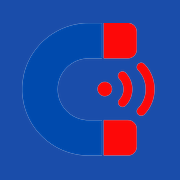
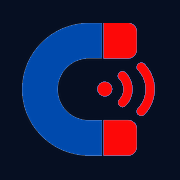
Fondo del ícono de la PWA: celeste claro -> navy oscuro (#060F22, el de Training)
Los PNG de ícono tenían el fondo pintado en el archivo, no solo en el
manifest -- se recoloreó por distancia de color para tocar solo el
fondo plano y dejar el imán/rojo del logo intactos. theme_color y los
meta theme-color del HTML quedan en línea con el nuevo fondo.

Claude-Session: https://claude.ai/code/session_01DTTr8vqoQRM8kee5pWPdE3

diff --git a/admin/index.html b/admin/index.html
@@ -7,7 +7,7 @@
   <title>COSMART Marketing Hub — Admin</title>
   <link rel="icon" type="image/png" href="../app/favicon-cosmart.png?v=2">
   <link rel="manifest" href="/manifest.webmanifest">
-  <meta name="theme-color" content="#1A4DAA">
+  <meta name="theme-color" content="#060F22">
   <link rel="apple-touch-icon" href="/icons/apple-touch-icon.png">
   <meta name="apple-mobile-web-app-capable" content="yes">
   <meta name="apple-mobile-web-app-status-bar-style" content="black-translucent">

diff --git a/login.html b/login.html
@@ -8,7 +8,7 @@
   <link rel="icon" type="image/png" href="app/favicon-cosmart.png?v=2">
   <meta name="robots" content="noindex, nofollow">
   <link rel="manifest" href="/manifest.webmanifest">
-  <meta name="theme-color" content="#1A4DAA">
+  <meta name="theme-color" content="#060F22">
   <link rel="apple-touch-icon" href="/icons/apple-touch-icon.png">
   <meta name="apple-mobile-web-app-capable" content="yes">
   <meta name="apple-mobile-web-app-status-bar-style" content="black-translucent">

diff --git a/app/index.html b/app/index.html
@@ -7,7 +7,7 @@
   <title>COSMART Marketing Hub</title>
   <link rel="icon" type="image/png" href="favicon-cosmart.png?v=2">
   <link rel="manifest" href="/manifest.webmanifest">
-  <meta name="theme-color" content="#1A4DAA">
+  <meta name="theme-color" content="#060F22">
   <link rel="apple-touch-icon" href="/icons/apple-touch-icon.png">
   <meta name="apple-mobile-web-app-capable" content="yes">
   <meta name="apple-mobile-web-app-status-bar-style" content="black-translucent">

diff --git a/HANDOFF.md b/HANDOFF.md
@@ -1,6 +1,15 @@
 # HANDOFF — hub (frontend, Marketing Hub de COSMART)
 
-Actualizado: 2026-10-08. Léelo entero antes de tocar código o responder preguntas sobre el estado del proyecto.
+Actualizado: 2026-10-09. Léelo entero antes de tocar código o responder preguntas sobre el estado del proyecto.
+
+## [09/10] Ícono de la PWA: fondo azul oscuro (el de Training, #060F22) en vez del celeste claro
+
+Vaneh: "de hub nunca arreglaste como se ve el icono cuando se baja la app. El azul de fondo tiene que ser el más oscuro, el de training diria" -- el ícono (home screen al instalar la PWA) tenía el fondo en el celeste de `theme_color` (#1A4DAA), ella lo quería en el navy oscuro que ya usa Training (#060F22, el mismo de `training/admin/app/manifest.json` y de la franja del logo en los emails de `cosmart-training-core`).
+
+- **Los 5 PNG de ícono** (`icons/icon-192.png`, `icon-512.png`, `icon-maskable-192.png`, `icon-maskable-512.png`, `icons/apple-touch-icon.png`) tenían el fondo pintado DENTRO del PNG (no es solo CSS/manifest) -- se recoloreó con un script de Python (PIL): cualquier píxel a distancia ≤14 del celeste viejo exacto `(26,77,170)` pasa a `(6,15,34)` = `#060F22`; el resto (el imán en azul medio `(0,74,173)` y el rojo) queda intacto, así el imán se sigue viendo con buen contraste contra el fondo oscuro nuevo. **Ojo si hay que volver a tocar estos PNG**: el primer intento fue escalar TODOS los píxeles azules proporcionalmente (fondo Y el imán a la vez) y quedó mal -- el imán, al ser casi del mismo celeste que el fondo viejo, se volvía casi invisible contra el navy nuevo. El fix bueno es el de arriba: tocar SOLO el fondo plano (que es un color sólido exacto, sin anti-aliasing contra sí mismo) y dejar el imán con su propio azul sin tocar.
+- **`manifest.webmanifest`**: `background_color` (color de la pantalla de splash al abrir la PWA) y `theme_color` pasaron de `#1A4DAA` a `#060F22`.
+- **`<meta name="theme-color">`** en `login.html`/`admin/index.html`/`app/index.html`: mismo cambio, para que el color de la barra de estado/dirección del navegador (instalado o no) sea consistente con el ícono nuevo.
+- **Importante para Vaneh**: los sistemas operativos (sobre todo iOS) cachean agresivamente el ícono en el momento de instalar la PWA -- probablemente tenga que **desinstalar y volver a "Agregar a inicio"** para ver el ícono nuevo; un simple refresh de la página no alcanza.
 
 ## [08/10] Card "📧 Campaña de email -- Training" en Configuración (proxy a cosmart-training-core)
 
